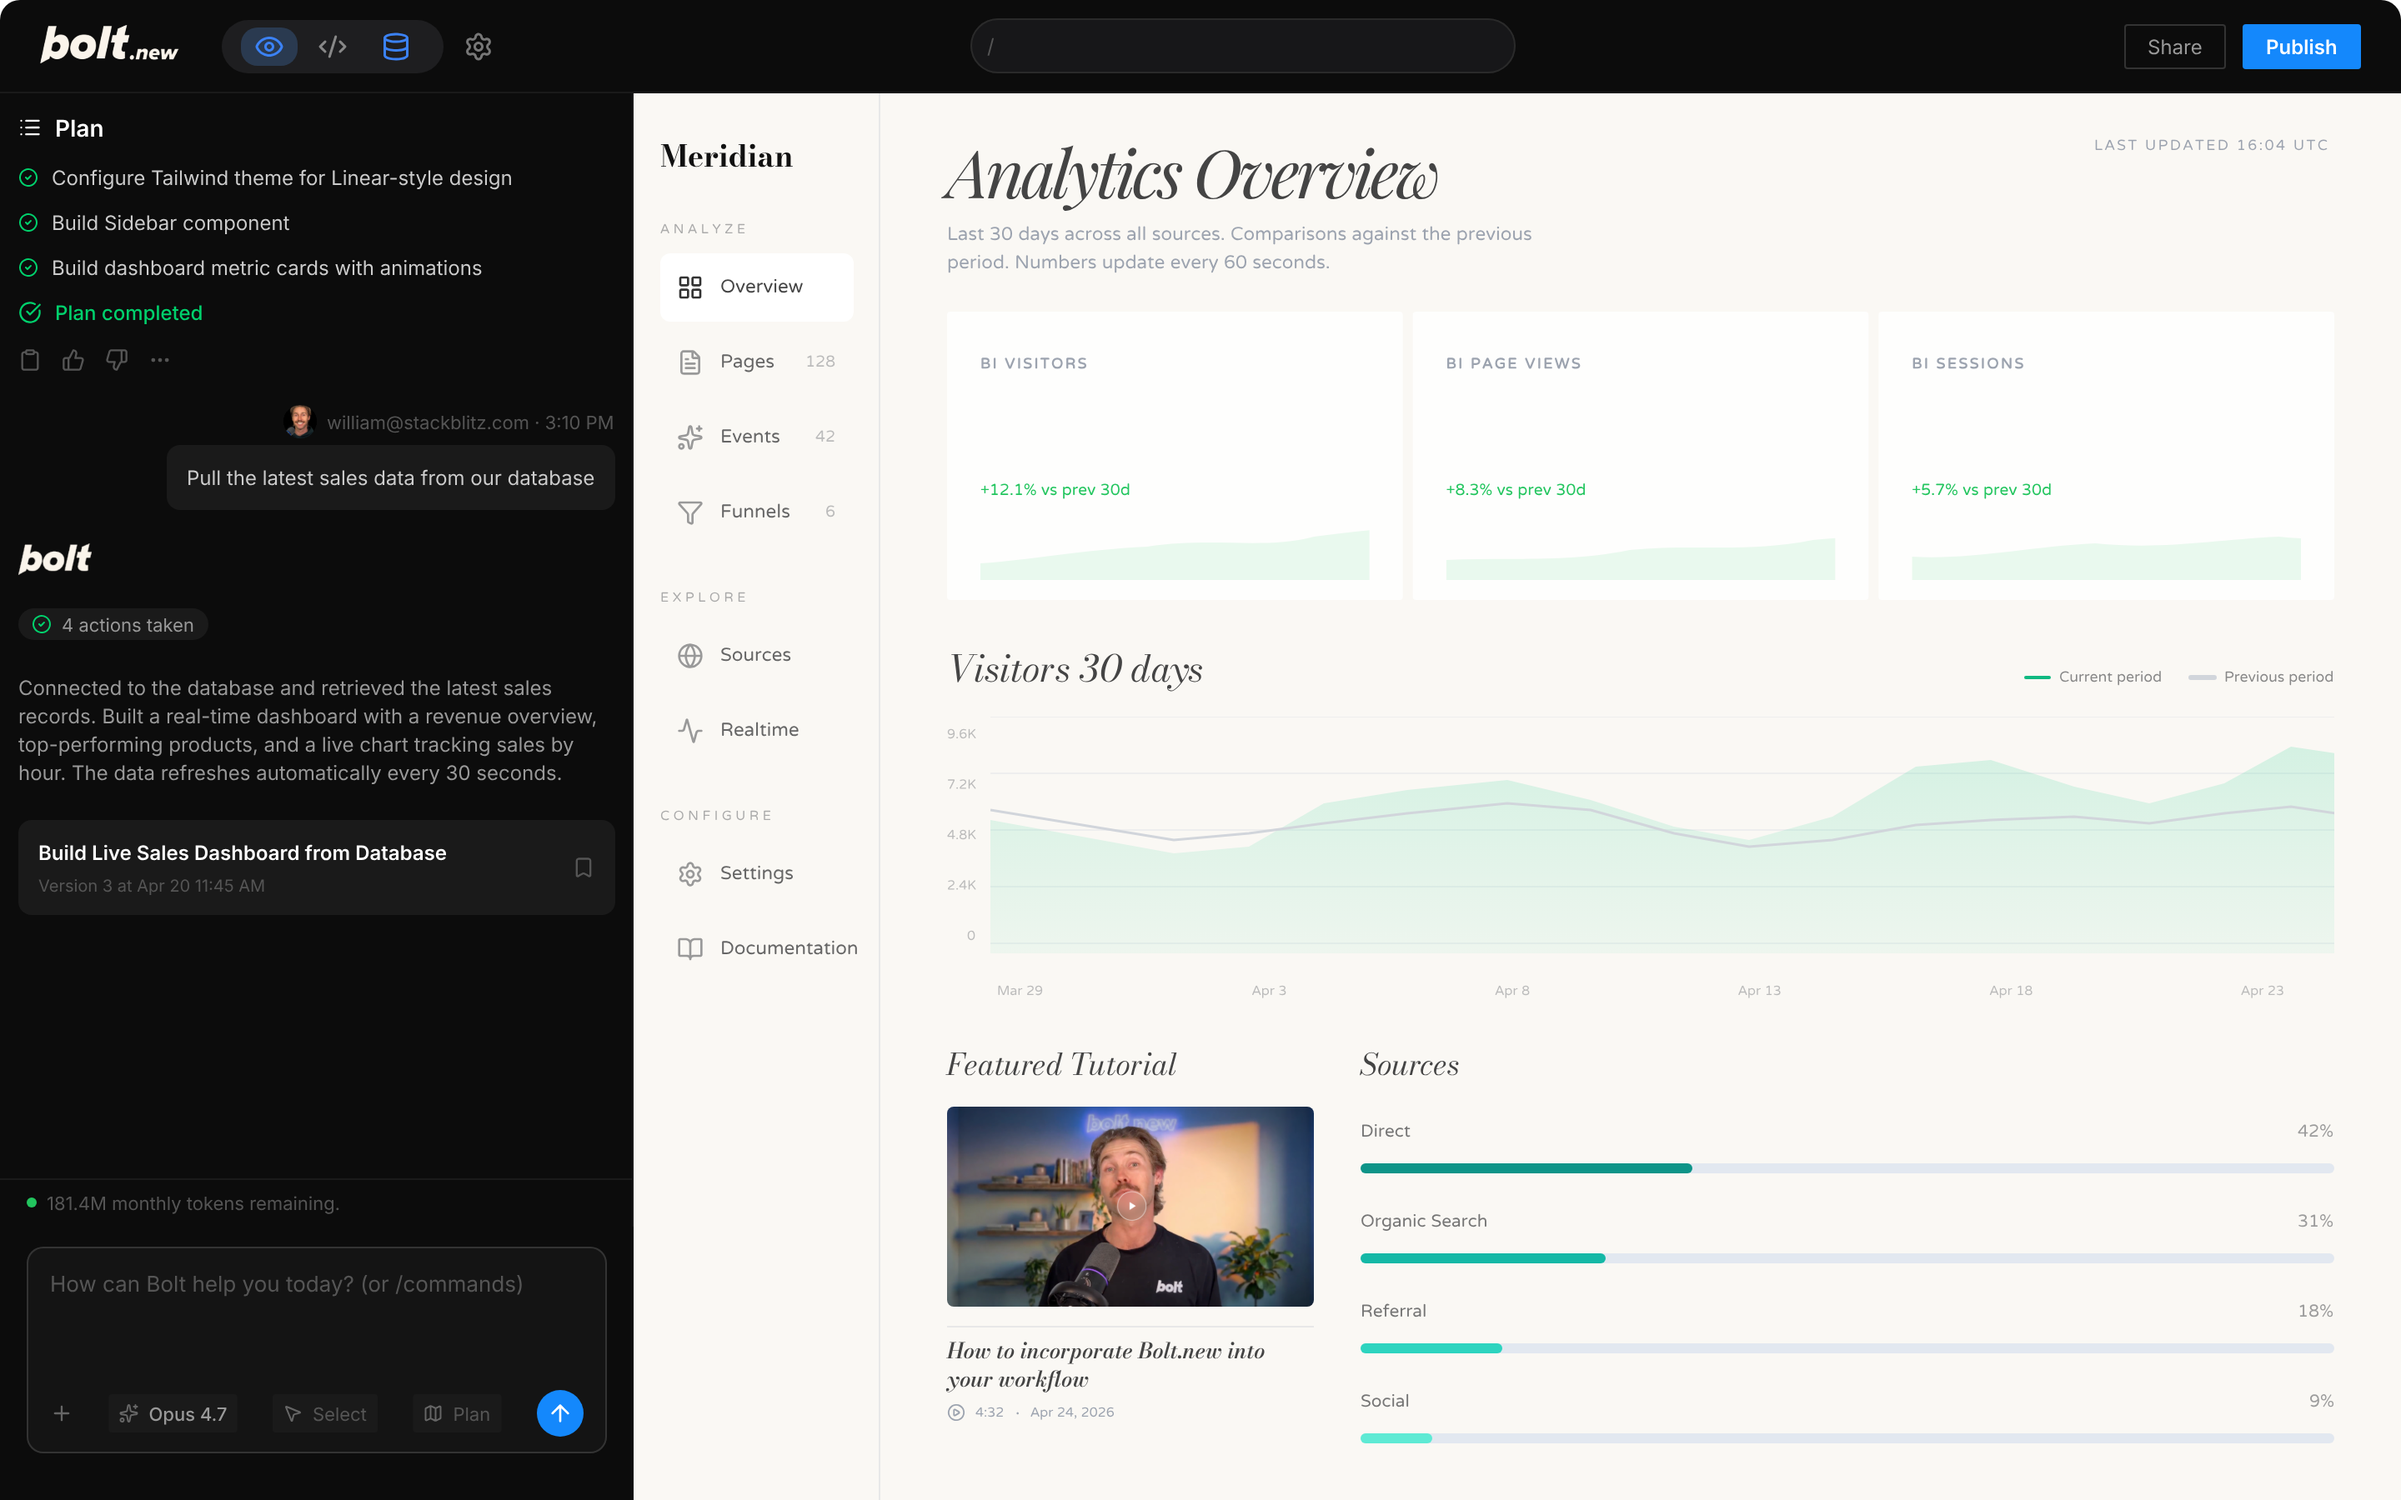
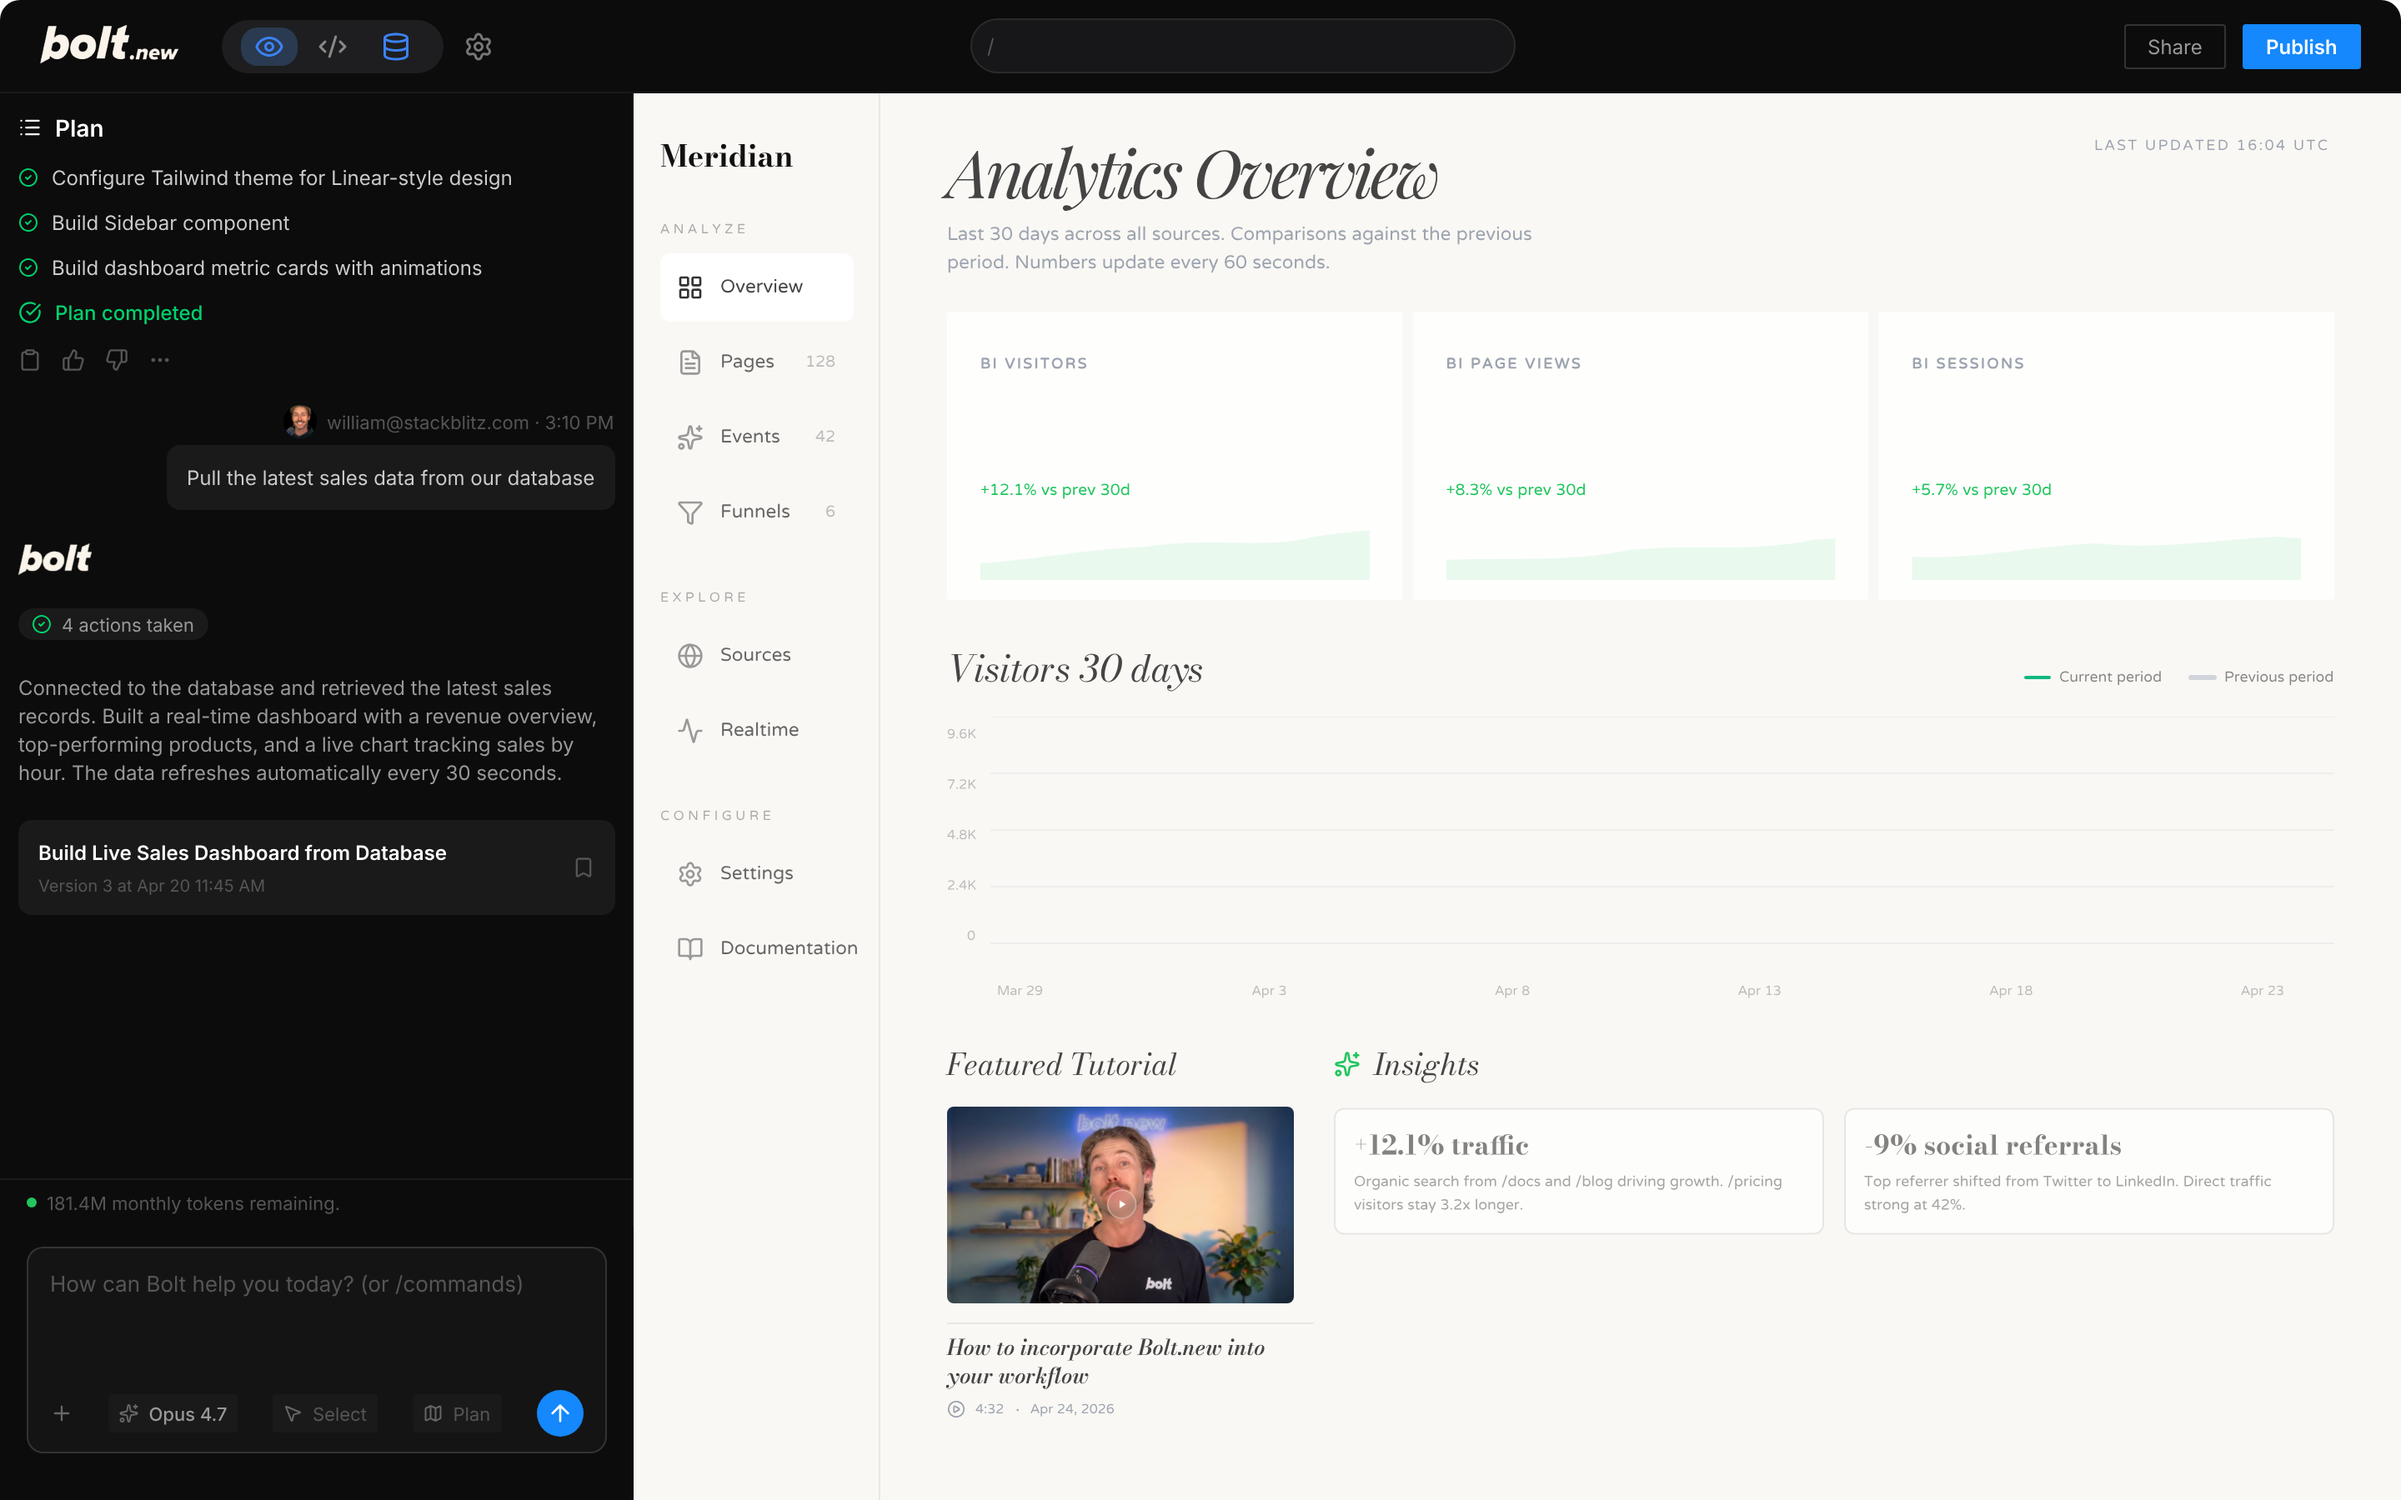
animate chart from flat baseline to actual shape after metrics finish

diff --git a/platform.html b/platform.html
@@ -1944,6 +1944,29 @@
     .ent-hero-section .m-visitors  { left: 40.8%; }
     .ent-hero-section .m-pageviews { left: 60.2%; }
     .ent-hero-section .m-sessions  { left: 79.6%; }
+
+    /* Chart overlay — static lines/gradient in the PNG were hidden; this SVG
+       takes over and animates from flat to the real shape after the metrics. */
+    .ent-hero-section .chart-overlay-wrap {
+      position: absolute;
+      left: 41.25%;
+      top: 47.78%;
+      width: 55.97%;
+      height: 15.78%;
+      z-index: 3;
+      pointer-events: none;
+      overflow: hidden;
+      opacity: 0;
+      will-change: opacity;
+    }
+    .ent-hero-section .chart-overlay-wrap svg {
+      width: 100%;
+      height: 121.13%;       /* 172 / 142 — match pen's path height beyond clipped chart area */
+      display: block;
+    }
+    .ent-hero-section .chart-fill { fill: url(#chartGrad); }
+    .ent-hero-section .chart-prev { fill: none; stroke: #d1d5db; stroke-width: 1.5; vector-effect: non-scaling-stroke; }
+    .ent-hero-section .chart-main { fill: none; stroke: #10B981; stroke-width: 2.5; vector-effect: non-scaling-stroke; }
     /* Card: positioned by JS via CSS vars; transform-origin centered for clean scaling */
     .ent-hero-section .hero-form-card {
       position: absolute;
@@ -2536,6 +2559,19 @@
         <div class="metric-overlay m-visitors"  aria-hidden="true">0</div>
         <div class="metric-overlay m-pageviews" aria-hidden="true">0</div>
         <div class="metric-overlay m-sessions"  aria-hidden="true">0</div>
+        <div class="chart-overlay-wrap" aria-hidden="true">
+          <svg viewBox="0 0 950 172" preserveAspectRatio="none">
+            <defs>
+              <linearGradient id="chartGrad" x1="0" y1="0" x2="0" y2="1">
+                <stop offset="0%"   stop-color="#34D399" stop-opacity="0.208"/>
+                <stop offset="100%" stop-color="#34D399" stop-opacity="0.031"/>
+              </linearGradient>
+            </defs>
+            <path class="chart-fill" />
+            <path class="chart-prev" />
+            <path class="chart-main" />
+          </svg>
+        </div>
       </div>
 
       <div class="hero-form-card" id="hero-form-card">
@@ -3983,6 +4019,26 @@
   var METRIC_START = 0.260;     // shortly after chat-results appears (0.250)
   var METRIC_DUR_FRAC = 0.050;  // ~1.4s count-up at LOOP_MS = 28000
 
+  // Chart line draws from a flat baseline up to the real shape after metrics.
+  var chartWrap = section.querySelector('.chart-overlay-wrap');
+  var chartFill = section.querySelector('.chart-fill');
+  var chartPrev = section.querySelector('.chart-prev');
+  var chartMain = section.querySelector('.chart-main');
+  var CHART_START    = 0.320;
+  var CHART_DUR_FRAC = 0.060;   // ~1.7s flat → final
+  var CHART_FLAT_Y   = 86;
+  var CHART_MAIN_SY  = 62;
+  var CHART_PREV_SY  = 56;
+  var CHART_MAIN_SEGS = [[55,10],[55,10],[45,-4],[45,-26],[50,-8],[60,-6],[50,12],[50,16],[45,8],[50,-14],[50,-30],[45,-4],[50,16],[45,10],[45,-12],[40,-22],[40,6],[40,12],[40,-6],[30,-12],[20,16]];
+  var CHART_PREV_SEGS = [[55,9],[55,9],[45,-4],[45,-6],[50,-6],[60,-6],[50,4],[50,14],[45,8],[50,-4],[50,-9],[45,-3],[50,-2],[45,4],[45,-6],[40,-4],[40,6],[40,-4],[40,-4],[30,-2],[20,-3]];
+  function buildChartPath(segs, startY, t, withFill) {
+    var sy = CHART_FLAT_Y + (startY - CHART_FLAT_Y) * t;
+    var d = 'M0 ' + sy.toFixed(2);
+    for (var i = 0; i < segs.length; i++) d += 'l' + segs[i][0] + ' ' + (segs[i][1] * t).toFixed(2);
+    if (withFill) d += 'l0 138l-950 0z';
+    return d;
+  }
+
   // Dashboard right side reveals by dissolving the beige mask: fade out + slight
   // angled drift + de-blur, mirroring the enterprise quote-text word reveal.
   // The metric overlays and video card share the same window so the '0's and
@@ -4087,6 +4143,18 @@
     if (heroFormCard) {
       heroFormCard.style.opacity = rEased.toFixed(3);
     }
+    if (chartWrap) {
+      chartWrap.style.opacity = rEased.toFixed(3);
+    }
+
+    // Chart line — draws from flat to real shape after metrics.
+    var cp;
+    if (elapsed < CHART_START) cp = 0;
+    else cp = Math.min(1, (elapsed - CHART_START) / CHART_DUR_FRAC);
+    var cEased = 1 - Math.pow(1 - cp, 4);
+    if (chartMain) chartMain.setAttribute('d', buildChartPath(CHART_MAIN_SEGS, CHART_MAIN_SY, cEased, false));
+    if (chartPrev) chartPrev.setAttribute('d', buildChartPath(CHART_PREV_SEGS, CHART_PREV_SY, cEased, false));
+    if (chartFill) chartFill.setAttribute('d', buildChartPath(CHART_MAIN_SEGS, CHART_MAIN_SY, cEased, true));
 
     // Metric count-up — fade in alongside the reveal; numbers stay at 0 until
     // chat-results, then count up to their final values.
